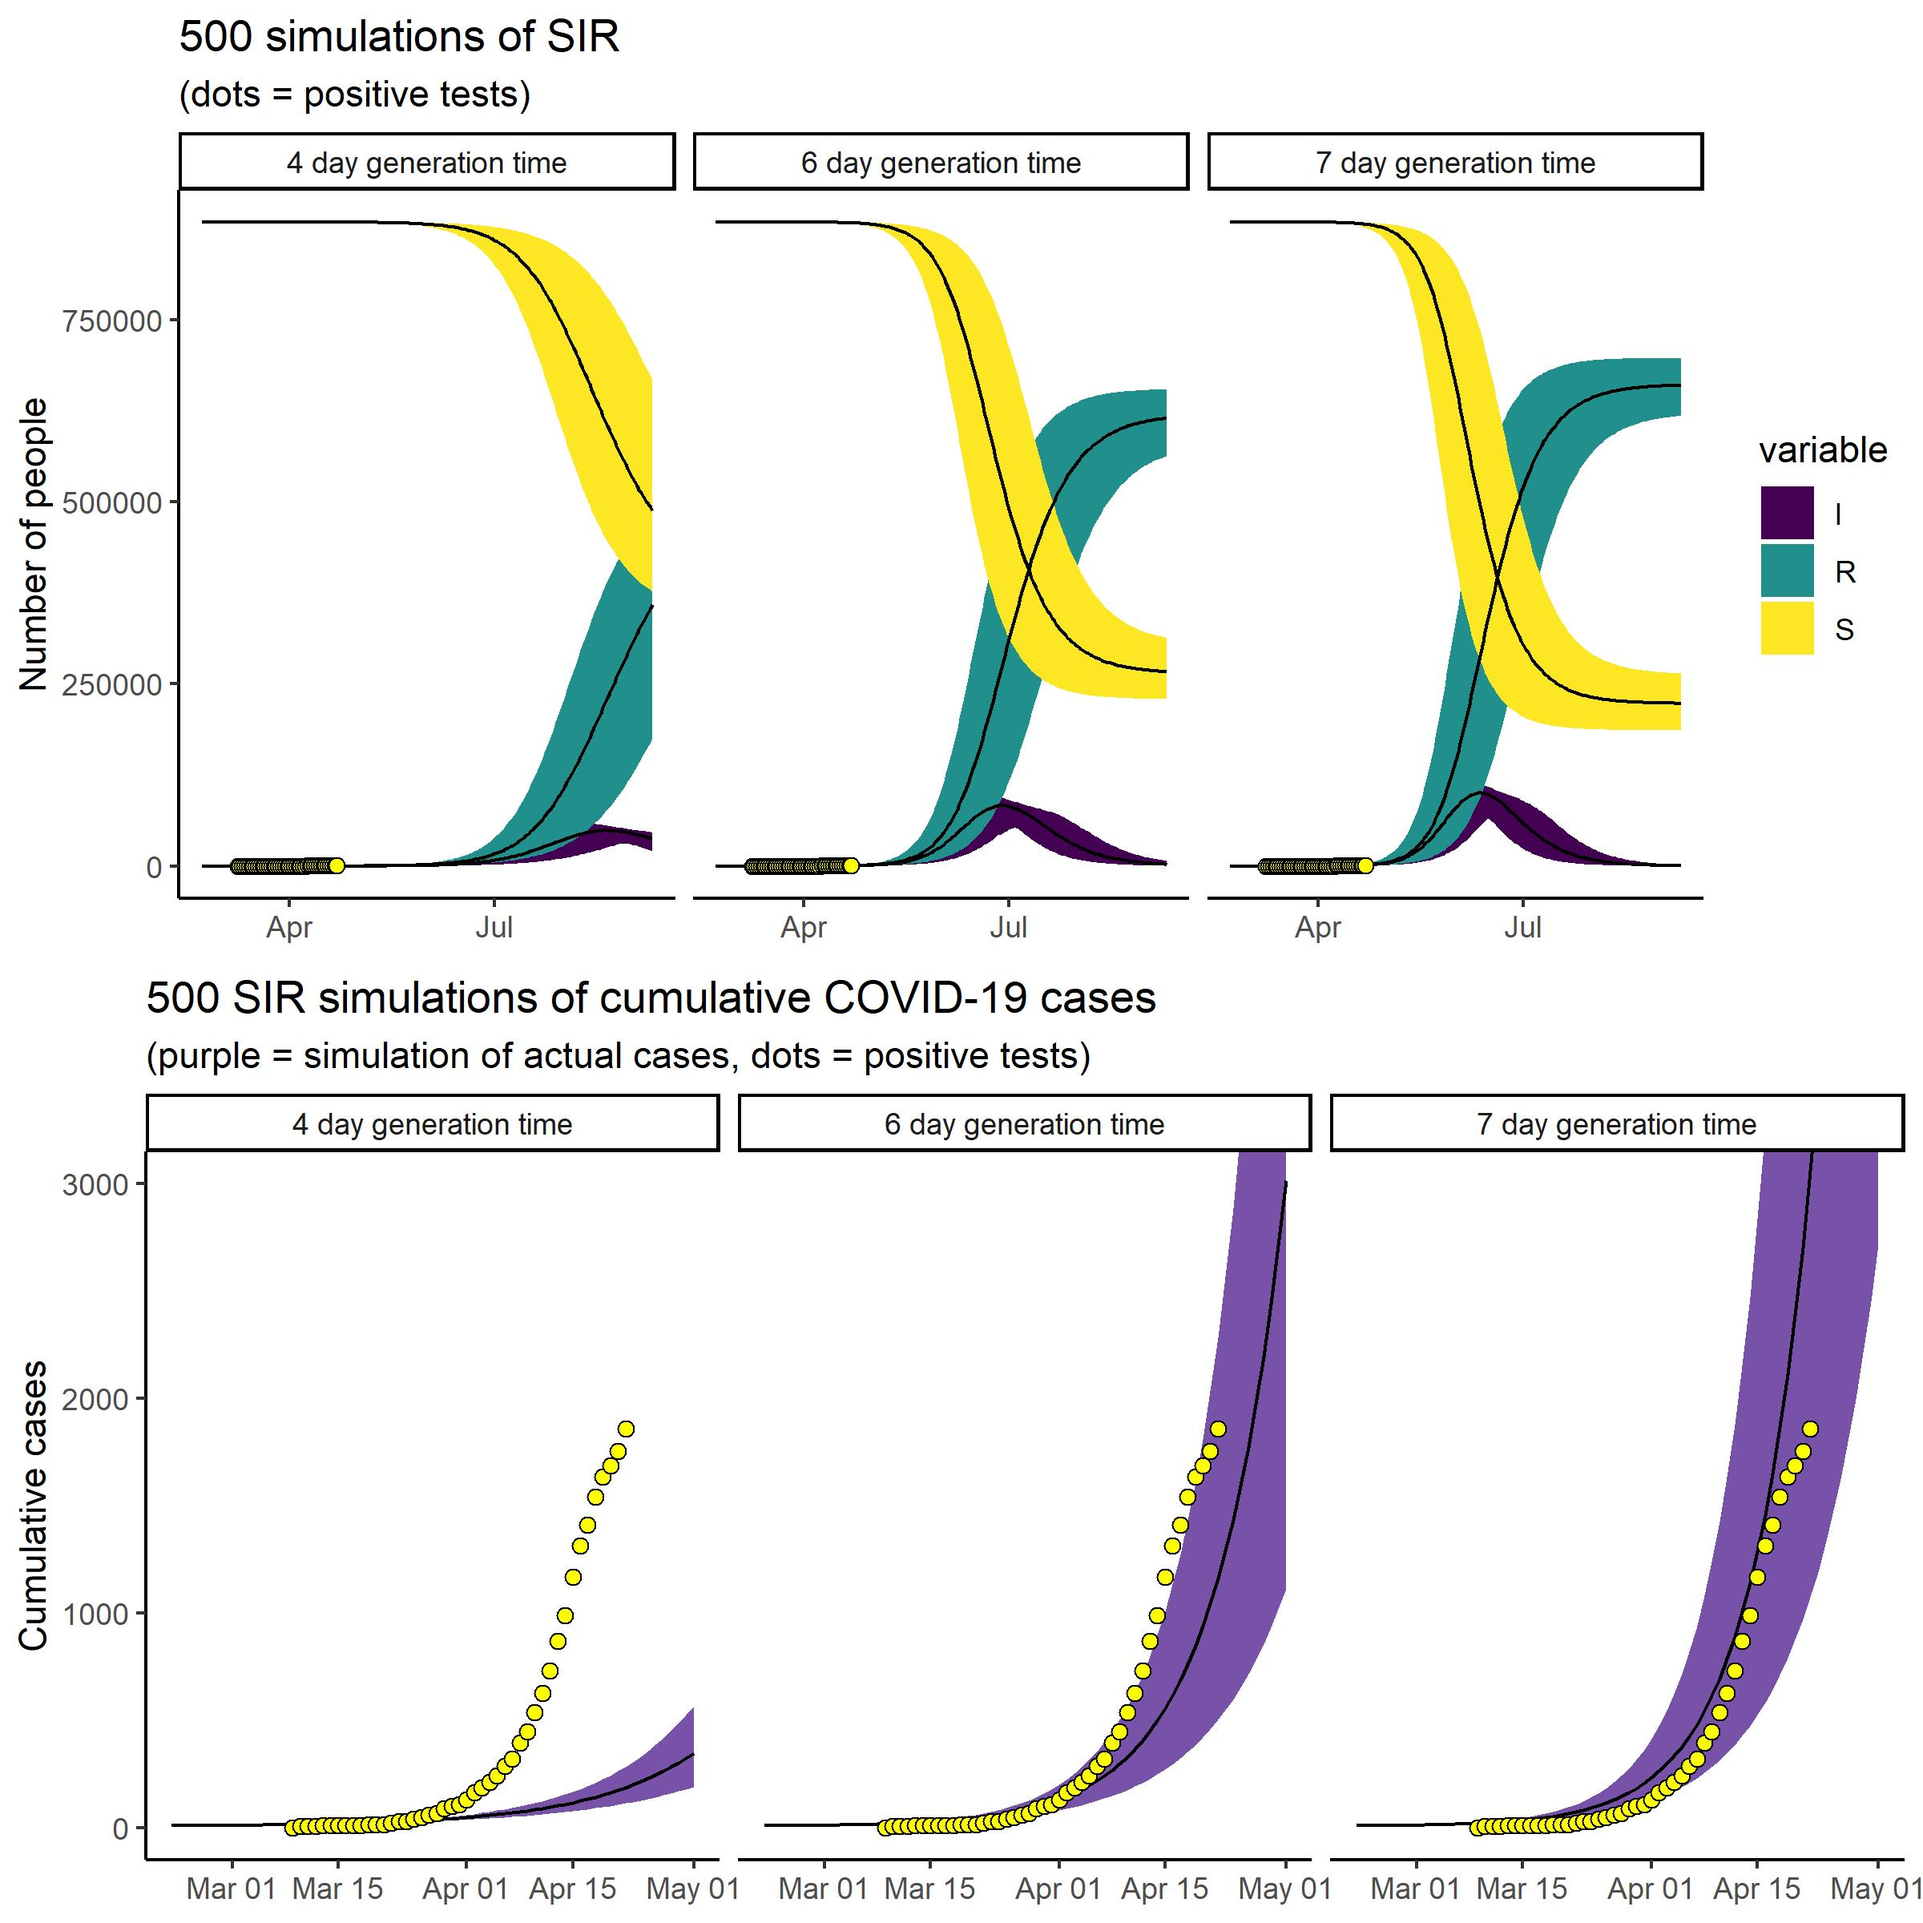
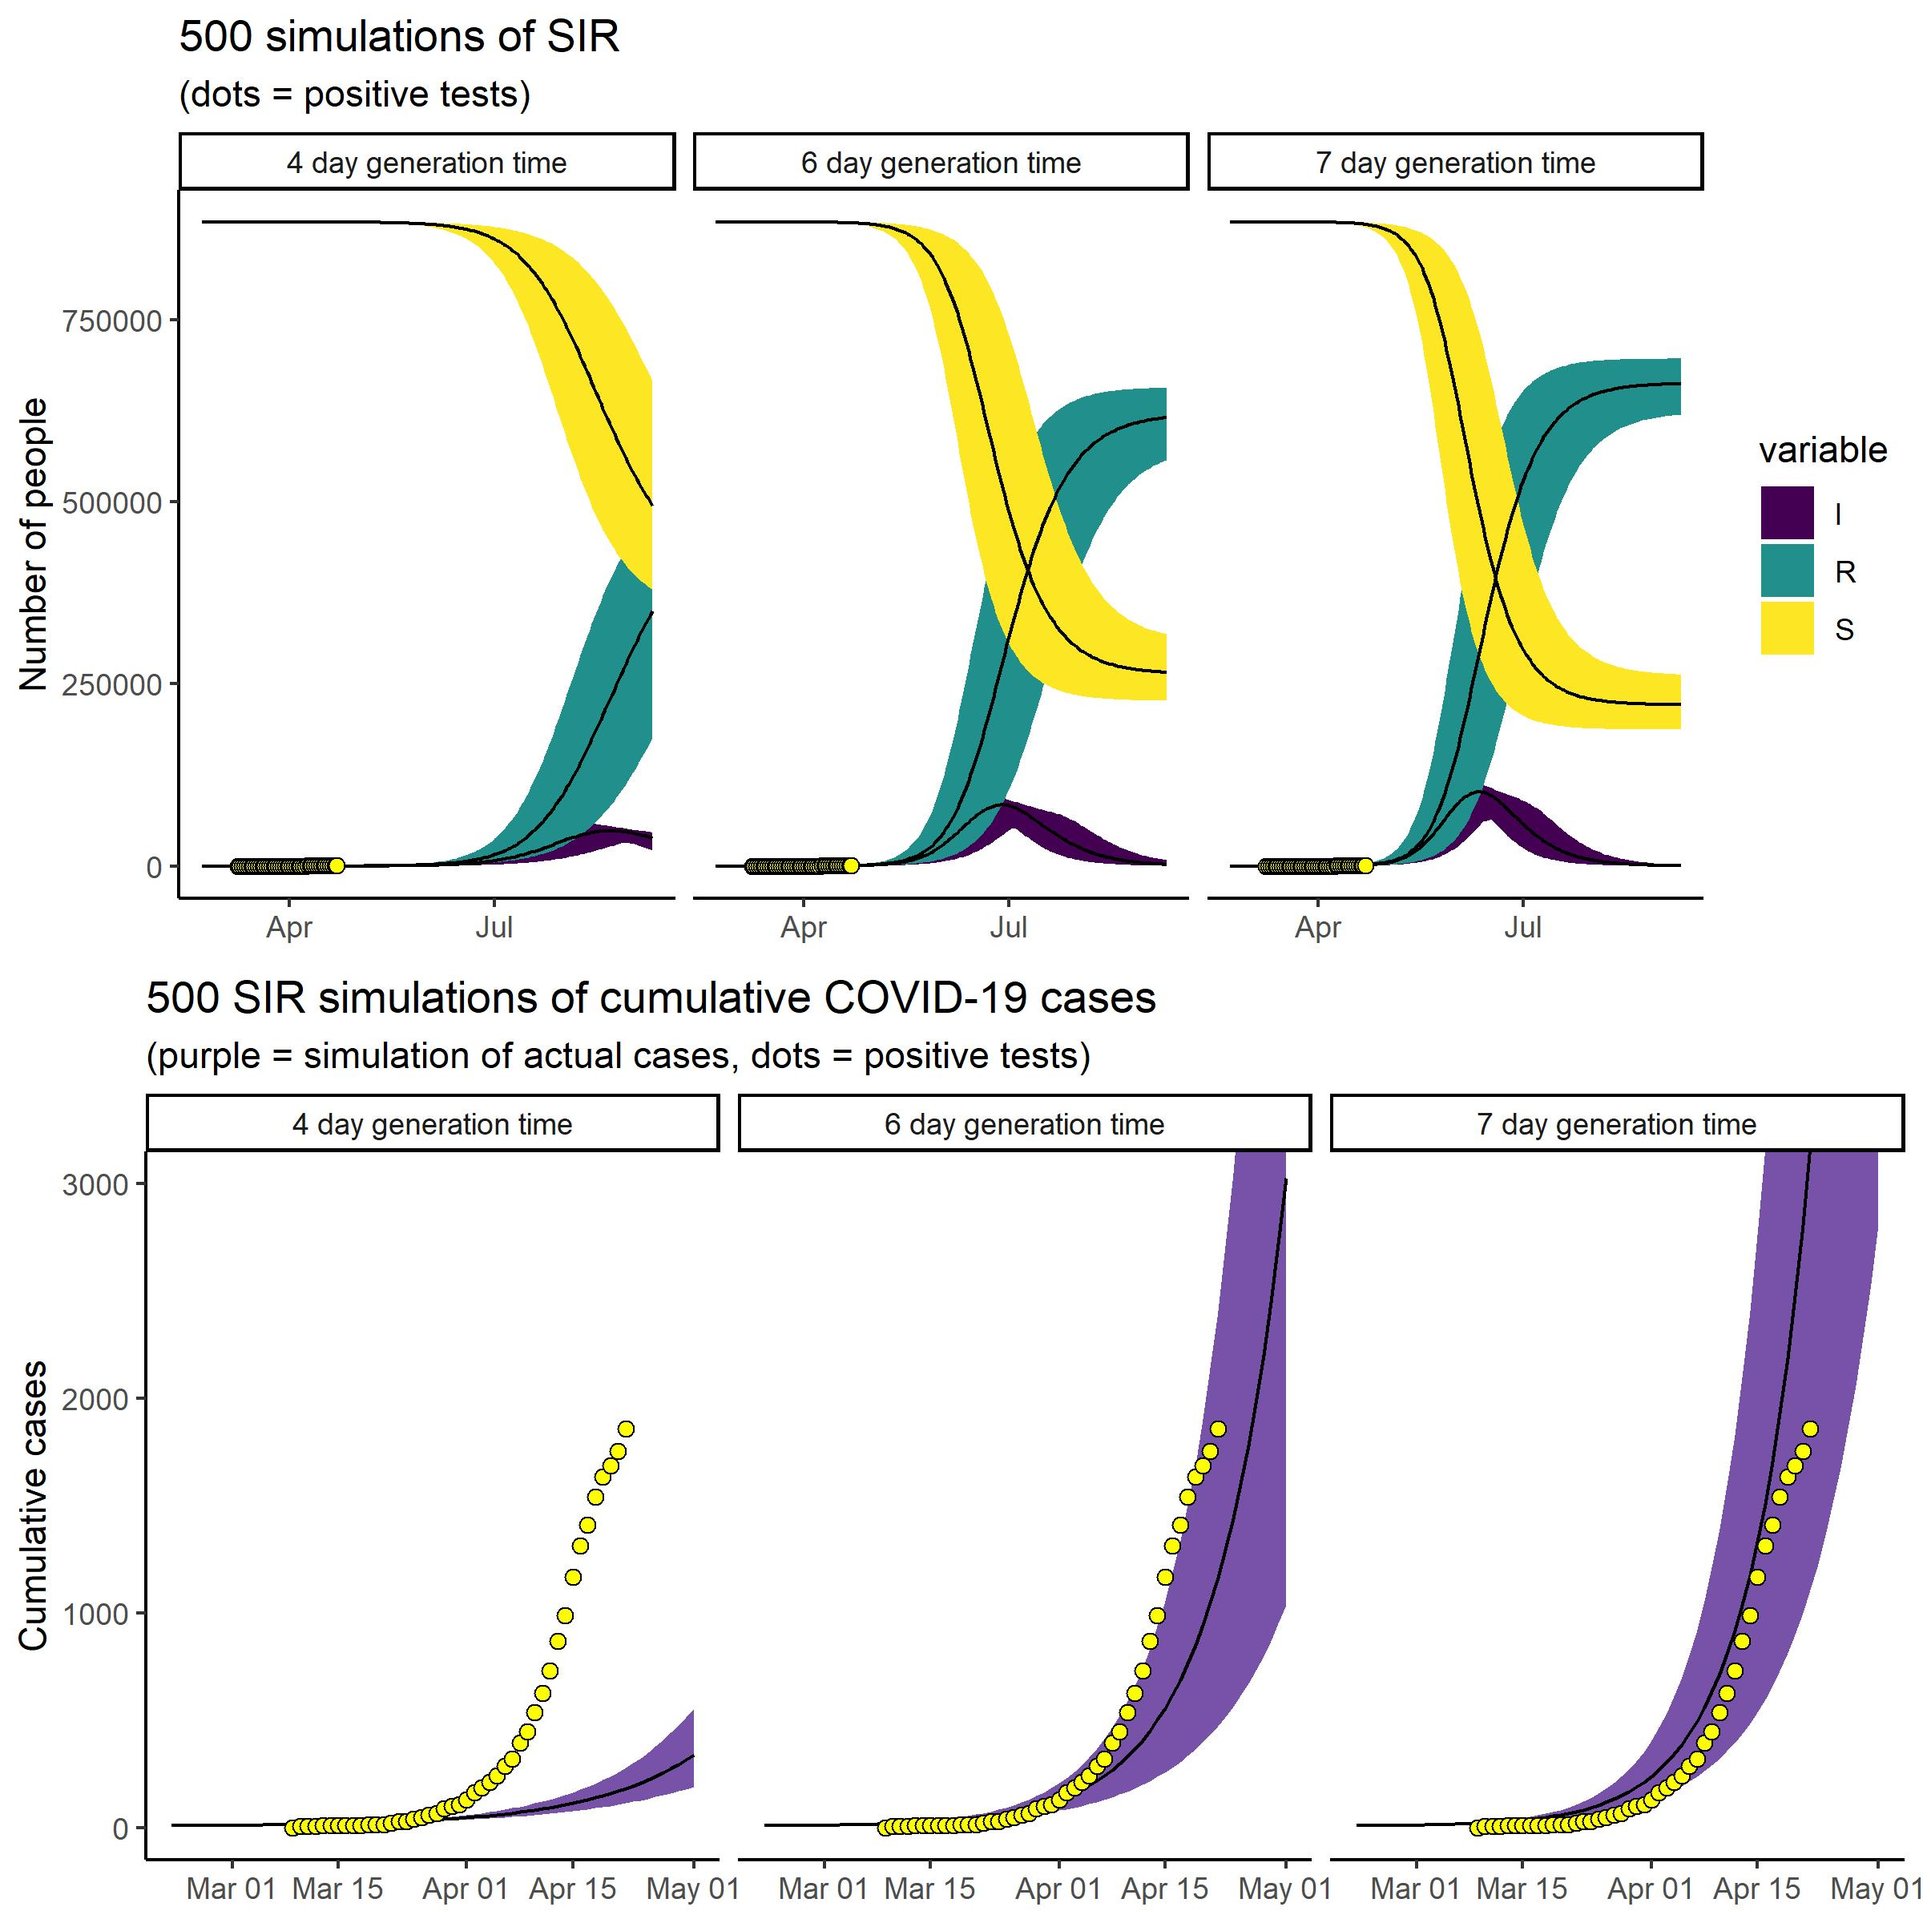
update formulae

diff --git a/README.md b/README.md
@@ -43,7 +43,7 @@ We used the following equation to estimate R0 (eqn 3.1 in Wallinga and
 Lipsitch 2007)
 <https://www.ncbi.nlm.nih.gov/pmc/articles/PMC1766383/?report=reader#!po=83.3333>:
 
-\[R0 = 1 + r/b\]
+![](README_files/figure-gfm/unnamed-chunk-2-1.png)<!-- -->
 
 where 1/b is the generation time (aka serial interval) in days, and *r*
 is the slope of a linear regression between daily incidence and time.
@@ -53,13 +53,13 @@ when growth is approximately log-linear.
 We estimated a posterior distribution of *r* using reported incidence
 data in the following regression:
 
-\[log(y_i) \sim N(\mu_i, \sigma)\] \[\mu_i = \alpha + \beta x_i\]
-\[\alpha \sim N(0,1)\] \[\beta \sim N(0,1)\]
-\[\sigma \sim HalfCauchy(0,1)\] where *log*(\(y_i\)) is log-transformed
-incidence on date \(i\), distributed as a normal distribution with a
-mean \(\mu_i\) and standard deviation \(\sigma\), \(\alpha\) is the
-intercept, \(\beta\) is the slope (aka *r*).The prior distributions for
-each parameter are below the regression equation.
+![](README_files/figure-gfm/unnamed-chunk-3-1.png)<!-- -->
+
+where *log*(y*i*) is log-transformed incidence on date *i*, distributed
+as a normal distribution with a mean *mu\[i\]* and standard deviation
+*sigma*, *alpha* is the intercept, *beta* is the slope (aka *r*).The
+prior distributions for each parameter are below the regression
+equation.
 
 The outcome of that regression is below. It shows a clear dip in
 incidence over the last 3-4 days, though this has had a minimal effect
@@ -67,7 +67,7 @@ thus far on our estimates of *r*. More importantly, our main comparison
 to model fit is the number of cumulative hospitalizations, which
 continue to track the model predictions (scroll below for the graph).
 
-![](README_files/figure-gfm/unnamed-chunk-4-1.png)<!-- -->
+![](README_files/figure-gfm/unnamed-chunk-6-1.png)<!-- -->
 
 We simulated uncertainty in R0 by sampling from the posterior
 distribution of *r* 500 times and re-calculating the equation for R0
@@ -87,18 +87,13 @@ samples from these values were entered into the following SIR model:
 Table 1. R0 values and generation times (days) used to fit the SIR
 model.
 
-\[\frac{dS}{dt} = \frac{\beta*S*I}N\]
+![](README_files/figure-gfm/unnamed-chunk-8-1.png)<!-- -->
 
-\[\frac{dI}{dt} = \frac{\beta*S*I}N - \gamma*I\]
+where gamma is 1/days\_infected, beta is gamma\*R0, days\_infect is 7,
+and N is S+I+R. We simulated 200 days of infection and assumed starting
+values for S = 0.99999, I = 0.000001, and R = 0.000009.
 
-\[\frac{dR}{dt} = \gamma*I\]
-
-where \(\gamma\) is 1/\(days_{infected}\), \(\beta\) is \(gamma\)\*R0,
-\(days_{infected}\) is 7, and \(N\) is \(S+I+R\). We simulated 200 days
-of infection and assumed starting values for S = 0.99999, I = 0.000001,
-and R = 0.000009.
-
-![](README_files/figure-gfm/unnamed-chunk-7-1.png)<!-- --> The graphs
+![](README_files/figure-gfm/unnamed-chunk-10-1.png)<!-- --> The graphs
 above show the outcome of the SIR model under 4, 6, or 7 day generation
 times. Lines are the mean predictions, shaded areas are the 2.5 and
 97.5% quantiles, and the dots are the reported data from SD DOH.
@@ -111,7 +106,7 @@ would need a ventilator. We also assumed a mean stays in the hospital
 system as a whole of 7, 8, or 10 days for hospitalization, ICU, and
 ventilator, respectively.
 
-![](README_files/figure-gfm/unnamed-chunk-8-1.png)<!-- -->
+![](README_files/figure-gfm/unnamed-chunk-11-1.png)<!-- -->
 
 This plot shows the predicted number of hospital beds, ICU beds, and
 ventilators needed under each scenario. The horizontal black line shows
@@ -128,9 +123,9 @@ hospitalization data. It indicates that peak resource use will occur
 
 | Need          | Mean | Lower95 | Upper95 |
 | :------------ | ---: | ------: | ------: |
-| Hospital Beds | 4559 |    2700 |    6154 |
-| ICU Beds      | 1851 |    1083 |    2496 |
-| Ventilators   | 1287 |     759 |    1727 |
+| Hospital Beds | 4632 |    2585 |    6109 |
+| ICU Beds      | 1882 |    1065 |    2486 |
+| Ventilators   | 1309 |     746 |    1720 |
 
 Table 2. Estimated peak medical needs in South Dakota. Dates for peak
 need are currently projected as early June, 2020.
